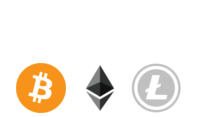
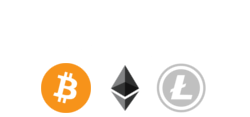
Modifications page donate

Changed region(s): [[0.06, 0.5385, 0.39, 0.9744], [0.6, 0.5385, 0.93, 0.9744], [0.42, 0.5641, 0.57, 0.9487]]

diff --git a/client/views/application/donate.html b/client/views/application/donate.html
@@ -9,7 +9,7 @@
         <hr class="mt-2 mb-2">
       </div>
           <div style="margin: 0 auto;text-align:center">
-    <!--  <form action="https://www.paypal.com/cgi-bin/webscr" method="post" target="_top" class="buttonDonate">
+      <form action="https://www.paypal.com/cgi-bin/webscr" method="post" target="_top" class="buttonDonate">
         <input type="hidden" name="cmd" value="_donations">
         <input type="hidden" name="business" value="modenaquentin@gmail.com">
         <input type="hidden" name="lc" value="FR">
@@ -19,14 +19,14 @@
         <input type="hidden" name="bn" value="PP-DonationsBF:paypal-min.png:NonHostedGuest">
         <button type="submit" class="btn btn-primary waves-effect waves-light"><img style="width:150px" src="/images/cb.png"/><br><img style="width:100px" src="/images/paypal-min.png"/></button>
         <img alt="" border="0" src="https://www.paypalobjects.com/fr_FR/i/scr/pixel.gif" width="1" height="1">
-      </form>-->
+      </form>
 
-      <form target="_blank" action="https://www.sandbox.paypal.com/cgi-bin/webscr" method="post" >
+      <!--<form target="_blank" action="https://www.sandbox.paypal.com/cgi-bin/webscr" method="post" >
       <input type="hidden" name="cmd" value="_s-xclick">
       <input type="hidden" name="hosted_button_id" value="K489WM46W9V2N">
       <button type="submit" class="btn btn-primary waves-effect waves-light"><img style="width:150px" src="/images/cb.png"/><br><img style="width:100px" src="/images/paypal-min.png"/></button>
       <img alt="" border="0" src="https://www.sandbox.paypal.com/fr_FR/i/scr/pixel.gif" width="1" height="1">
-      </form>
+    </form>-->
 
 
         <form target="_blank" action="https://www.coinpayments.net/index.php" method="post" class="buttonDonate">
@@ -35,7 +35,7 @@
         	<input type="hidden" name="merchant" value="e26b4c1fce5829b0926c77b756cd6745">
         	<input type="hidden" name="currency" value="EUR">
         	<input type="hidden" name="item_name" value="Donate">
-          <button type="submit" class="btn btn-primary waves-effect waves-light"><img style="width:100px" src="/images/coinbase.png"/></button>
+          <button type="submit" class="btn btn-primary waves-effect waves-light"><img style="width:150px" src="/images/coinbase.png"/></button>
         </form>
 
 </div>
